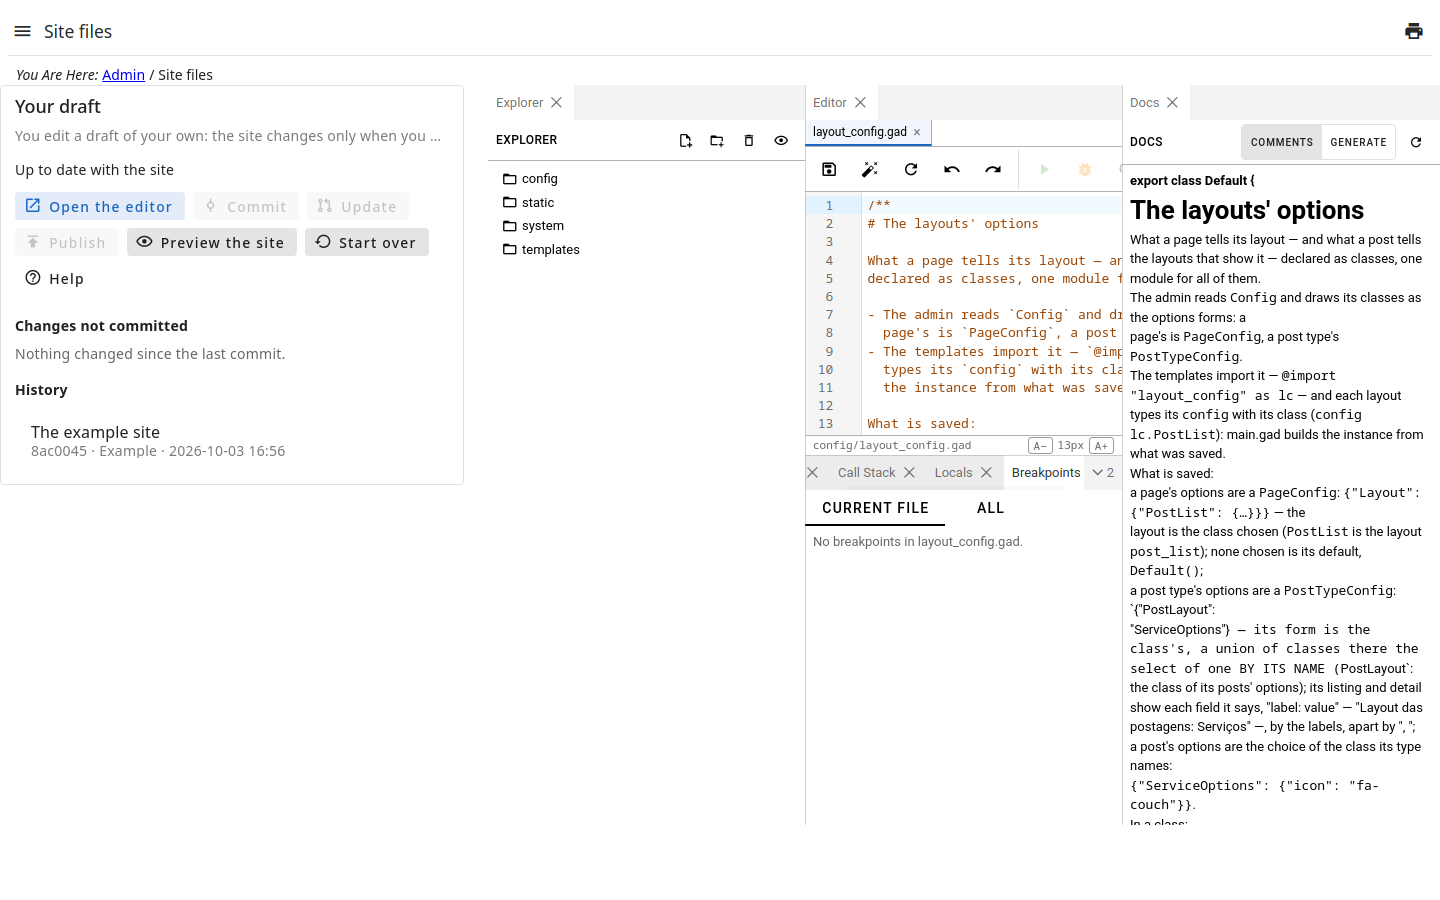
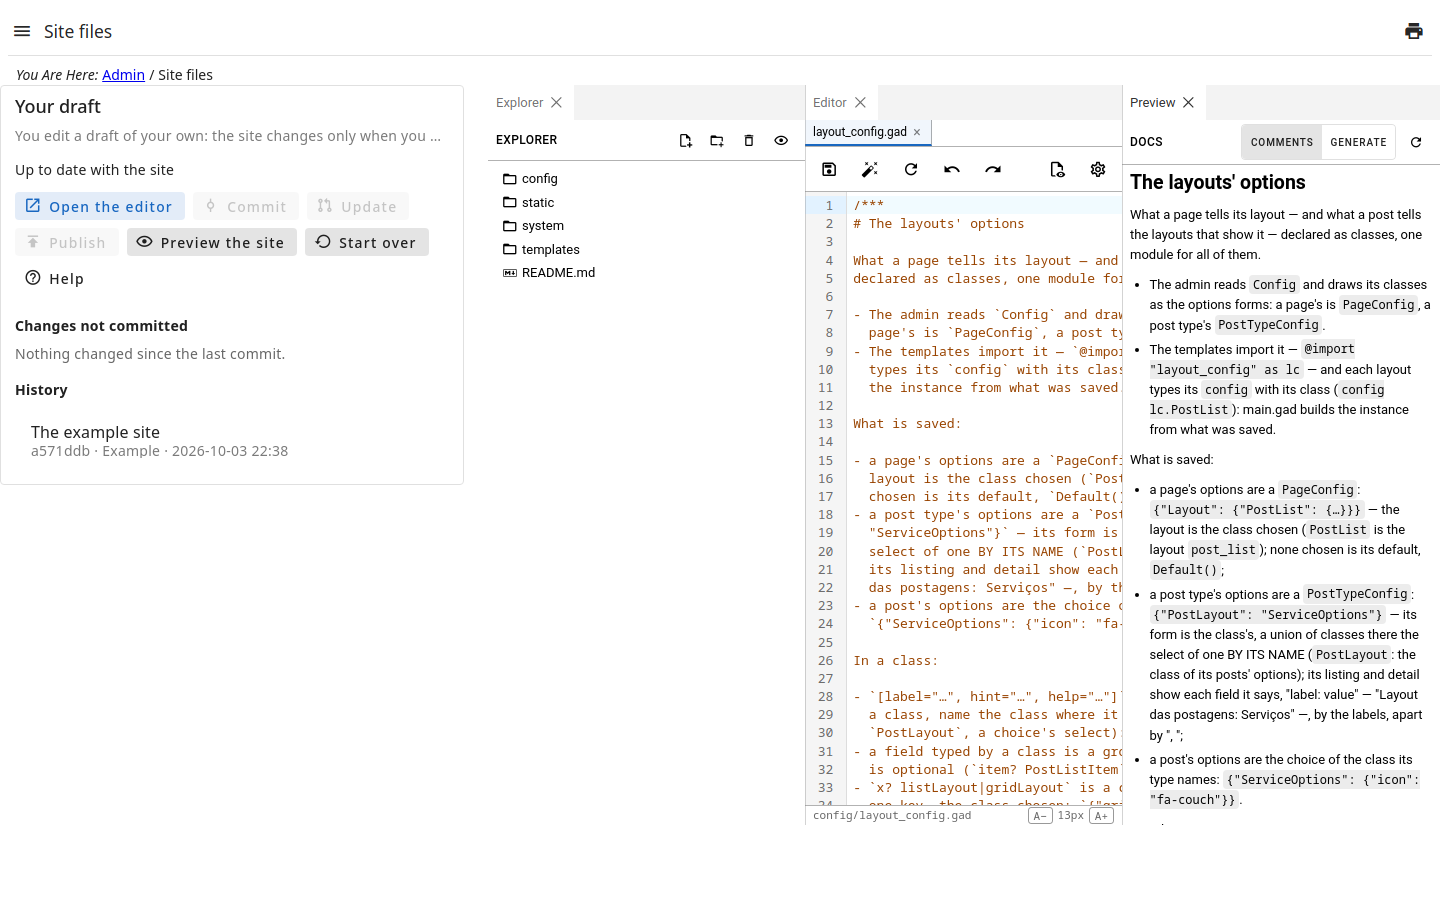
gitedit user docs: os prints da IDE do site refeitos; o editor numa aba própria e o Preview (docs, Markdown, HTML, imagens)

diff --git a/admin/packages/gitedit/user_docs/en/guides/site-files/01-edit/README.md b/admin/packages/gitedit/user_docs/en/guides/site-files/01-edit/README.md
@@ -9,8 +9,8 @@ only — the site and the drafts of the others stay as they are.
 - **Files**, on the right, is the editor: the tree of the files at its left,
   each file open in a tab. Save with the tab's button or Ctrl+S.
 - Create, rename and delete files and folders: from the tree's menu.
-- The editor formats and checks the `.gad`/`.gadx` files and shows the
-  language's documentation; it does not run code.
+- The editor formats and checks the `.gad`/`.gadx` files; it does not run
+  code.
 - **Changes not committed**, on the left, lists each file changed since the
   last commit; open one to see what changed. **Discard** drops its changes.
 - **Start over** drops the whole draft (the commits not published too): a new
@@ -19,6 +19,27 @@ only — the site and the drafts of the others stay as they are.
 The files are in folders: `templates/` (the pages, the layouts, the
 components), `static/` (styles, scripts, images) and `config/` (the options
 of the layouts).
+
+## The editor in a tab of its own
+
+**Open the editor** opens the editor in a tab of the browser, with more room.
+It has three panels: **Explorer** (the tree of the files), **Editor** (the
+files open, one per tab) and **Preview**, which shows the open file as its
+type is:
+
+- a `.gad`, `.gadt` or `.gadx` file: the **documentation** written in its
+  comments (`/*** … ***/` for the file, `/** … **/` before a declaration) —
+  **Generate** generates the whole documentation;
+- a **Markdown** file (`.md`), rendered; an **HTML** one, rendered without
+  running its scripts;
+- an **image**: the image.
+
+![The editor in a tab of its own: the layouts' options and their documentation in the Preview](images/ide.png)
+
+An image (png, jpg, gif, webp, svg…) opens as an image, whole and not
+stretched, in the editor and in the Preview — not as text:
+
+![An image open in the editor and in the Preview](images/ide-image.png)
 
 ## By WebDAV
 

diff --git a/admin/packages/gitedit/user_docs/pt-BR/guides/site-files/01-edit/README.md b/admin/packages/gitedit/user_docs/pt-BR/guides/site-files/01-edit/README.md
@@ -9,8 +9,8 @@ rascunho — o site e os rascunhos dos outros ficam como estão.
 - **Arquivos**, à direita, é o editor: a árvore dos arquivos à esquerda dele,
   cada arquivo aberto numa aba. Salve com o botão da aba ou com Ctrl+S.
 - Criar, renomear e apagar arquivos e pastas: pelo menu da árvore.
-- O editor formata e confere os arquivos `.gad`/`.gadx` e mostra a
-  documentação da linguagem; ele não executa código.
+- O editor formata e confere os arquivos `.gad`/`.gadx`; ele não executa
+  código.
 - **Alterações sem commit**, à esquerda, lista cada arquivo mudado desde o
   último commit; abra um para ver o que mudou. **Descartar** desfaz as
   alterações dele.
@@ -20,6 +20,27 @@ rascunho — o site e os rascunhos dos outros ficam como estão.
 Os arquivos ficam em pastas: `templates/` (as páginas, os layouts, os
 componentes), `static/` (estilos, scripts, imagens) e `config/` (as opções
 dos layouts).
+
+## O editor numa aba própria
+
+**Abrir o editor** abre o editor numa aba do navegador, com mais espaço. Ele
+tem três painéis: **Explorer** (a árvore dos arquivos), **Editor** (os
+arquivos abertos, um por aba) e **Preview**, que mostra o arquivo aberto
+conforme o tipo dele:
+
+- um arquivo `.gad`, `.gadt` ou `.gadx`: a **documentação** escrita nos
+  comentários dele (`/*** … ***/` para o arquivo, `/** … **/` antes de uma
+  declaração) — **Generate** gera a documentação completa;
+- um arquivo **Markdown** (`.md`), renderizado; um **HTML**, renderizado sem
+  executar os scripts dele;
+- uma **imagem**: ela mesma.
+
+![O editor numa aba própria: as opções dos layouts e a documentação delas no Preview](images/ide.png)
+
+Uma imagem (png, jpg, gif, webp, svg…) abre como imagem, inteira e sem
+distorcer, no editor e no Preview — não como texto:
+
+![Uma imagem aberta no editor e no Preview](images/ide-image.png)
 
 ## Pelo WebDAV
 
